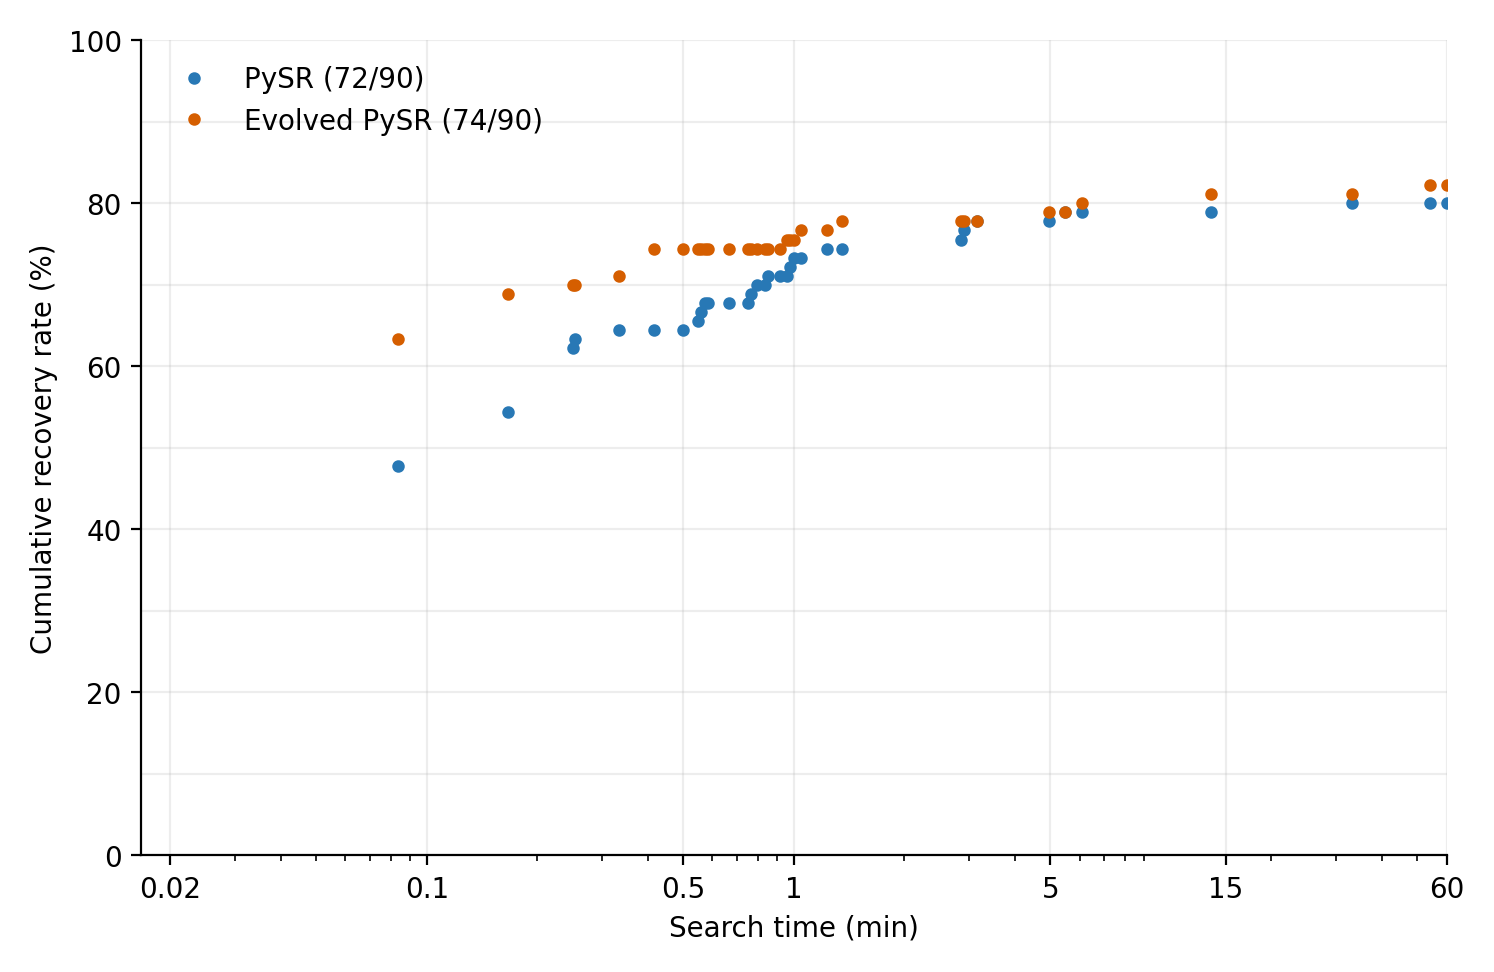
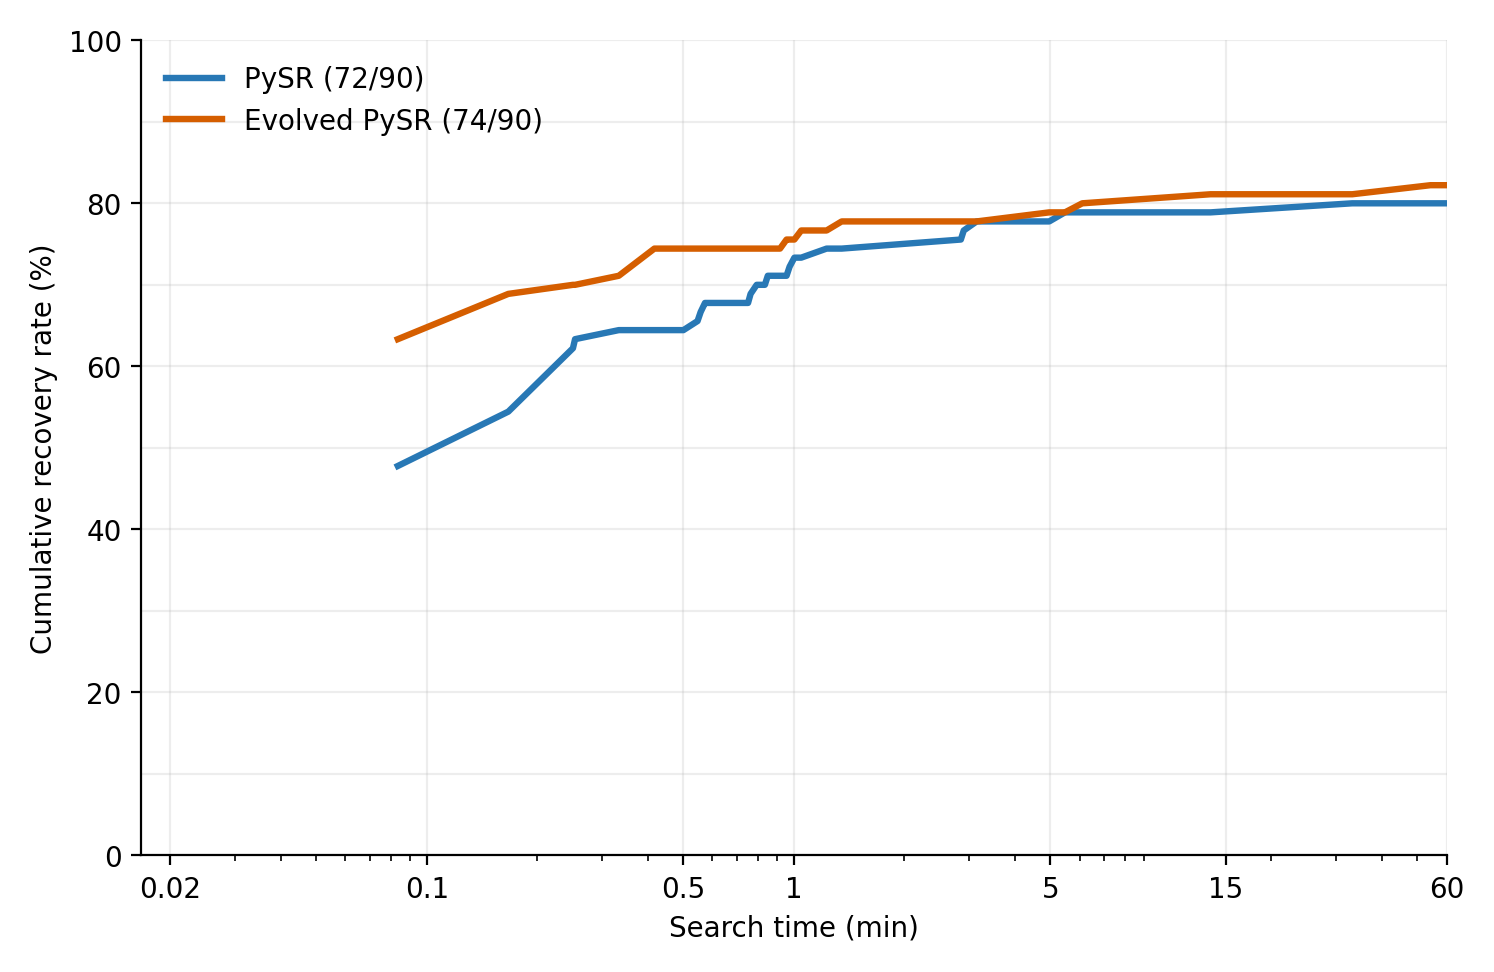
Connect grouped recovery checkpoints with solid lines

diff --git a/figures/plot_srbench2_spliced_portfolio.py b/figures/plot_srbench2_spliced_portfolio.py
@@ -49,7 +49,7 @@ def main():
         n = len(times)
         ys = [sum(t <= checkpoint for t in times)/90*100 for checkpoint in xs]
         assert len(xs) == len(set(xs)) and ys[-1] == n/90*100
-        ax.plot([t/60 for t in xs], ys, marker="o", markersize=3.5, color=color, linestyle="none",
+        ax.plot([t/60 for t in xs], ys, color=color, linestyle="-", linewidth=2.3,
                 label=f'{label} ({n}/90)')
         table.extend(dict(method=method, seconds=t, solve_rate_percent=y) for t,y in zip(xs,ys))
     ax.set(xscale='log', xlim=(1/60,60), ylim=(0,100), xlabel='Search time (min)',
@@ -71,7 +71,7 @@ def main():
         w=csv.DictWriter(f,fieldnames=list(table[0])); w.writeheader(); w.writerows(table)
     (a.output_dir/'README.md').write_text(f'# Synthetic SRBench2 portfolio plot\n\nSource: `{a.review_dir}`.\n\n'
         'New first restarts replace archived first restarts; later fits are reused and timestamps shifted. '
-        'One dot per method per checkpoint shows cumulative recovery, including checkpoints with no increase. Five-second captures use their scheduled times (5, 10, 15 seconds, etc.), not the slightly delayed actual read times. The common checkpoint grid combines scheduled captures and recorded restart-end recovery times, plus the one-hour endpoint. Raw review timings remain unchanged. The logarithmic axis is in minutes; CSV times are in seconds. '
+        'Solid lines connect cumulative recovery values at the shared checkpoints, including checkpoints with no increase. Five-second captures use their scheduled times (5, 10, 15 seconds, etc.), not the slightly delayed actual read times. The common checkpoint grid combines scheduled captures and recorded restart-end recovery times, plus the one-hour endpoint. Raw review timings remain unchanged. The logarithmic axis is in minutes; CSV times are in seconds. '
         'Final totals are computed, never fixed to historical counts. See the review README for scoring and timing caveats.\n')
     print(a.output_dir/'solve_rate.png')
 

diff --git a/figures/srbench2_1m_spliced_snap5/README.md b/figures/srbench2_1m_spliced_snap5/README.md
@@ -2,4 +2,4 @@
 
 Source: `runs/srbench2_9-17_1m_spliced_terra_recovery`.
 
-New first restarts replace archived first restarts; later fits are reused and timestamps shifted. One dot per method per checkpoint shows cumulative recovery, including checkpoints with no increase. Five-second captures use their scheduled times (5, 10, 15 seconds, etc.), not the slightly delayed actual read times. The common checkpoint grid combines scheduled captures and recorded restart-end recovery times, plus the one-hour endpoint. Raw review timings remain unchanged. The logarithmic axis is in minutes; CSV times are in seconds. Final totals are computed, never fixed to historical counts. See the review README for scoring and timing caveats.
+New first restarts replace archived first restarts; later fits are reused and timestamps shifted. Solid lines connect cumulative recovery values at the shared checkpoints, including checkpoints with no increase. Five-second captures use their scheduled times (5, 10, 15 seconds, etc.), not the slightly delayed actual read times. The common checkpoint grid combines scheduled captures and recorded restart-end recovery times, plus the one-hour endpoint. Raw review timings remain unchanged. The logarithmic axis is in minutes; CSV times are in seconds. Final totals are computed, never fixed to historical counts. See the review README for scoring and timing caveats.
